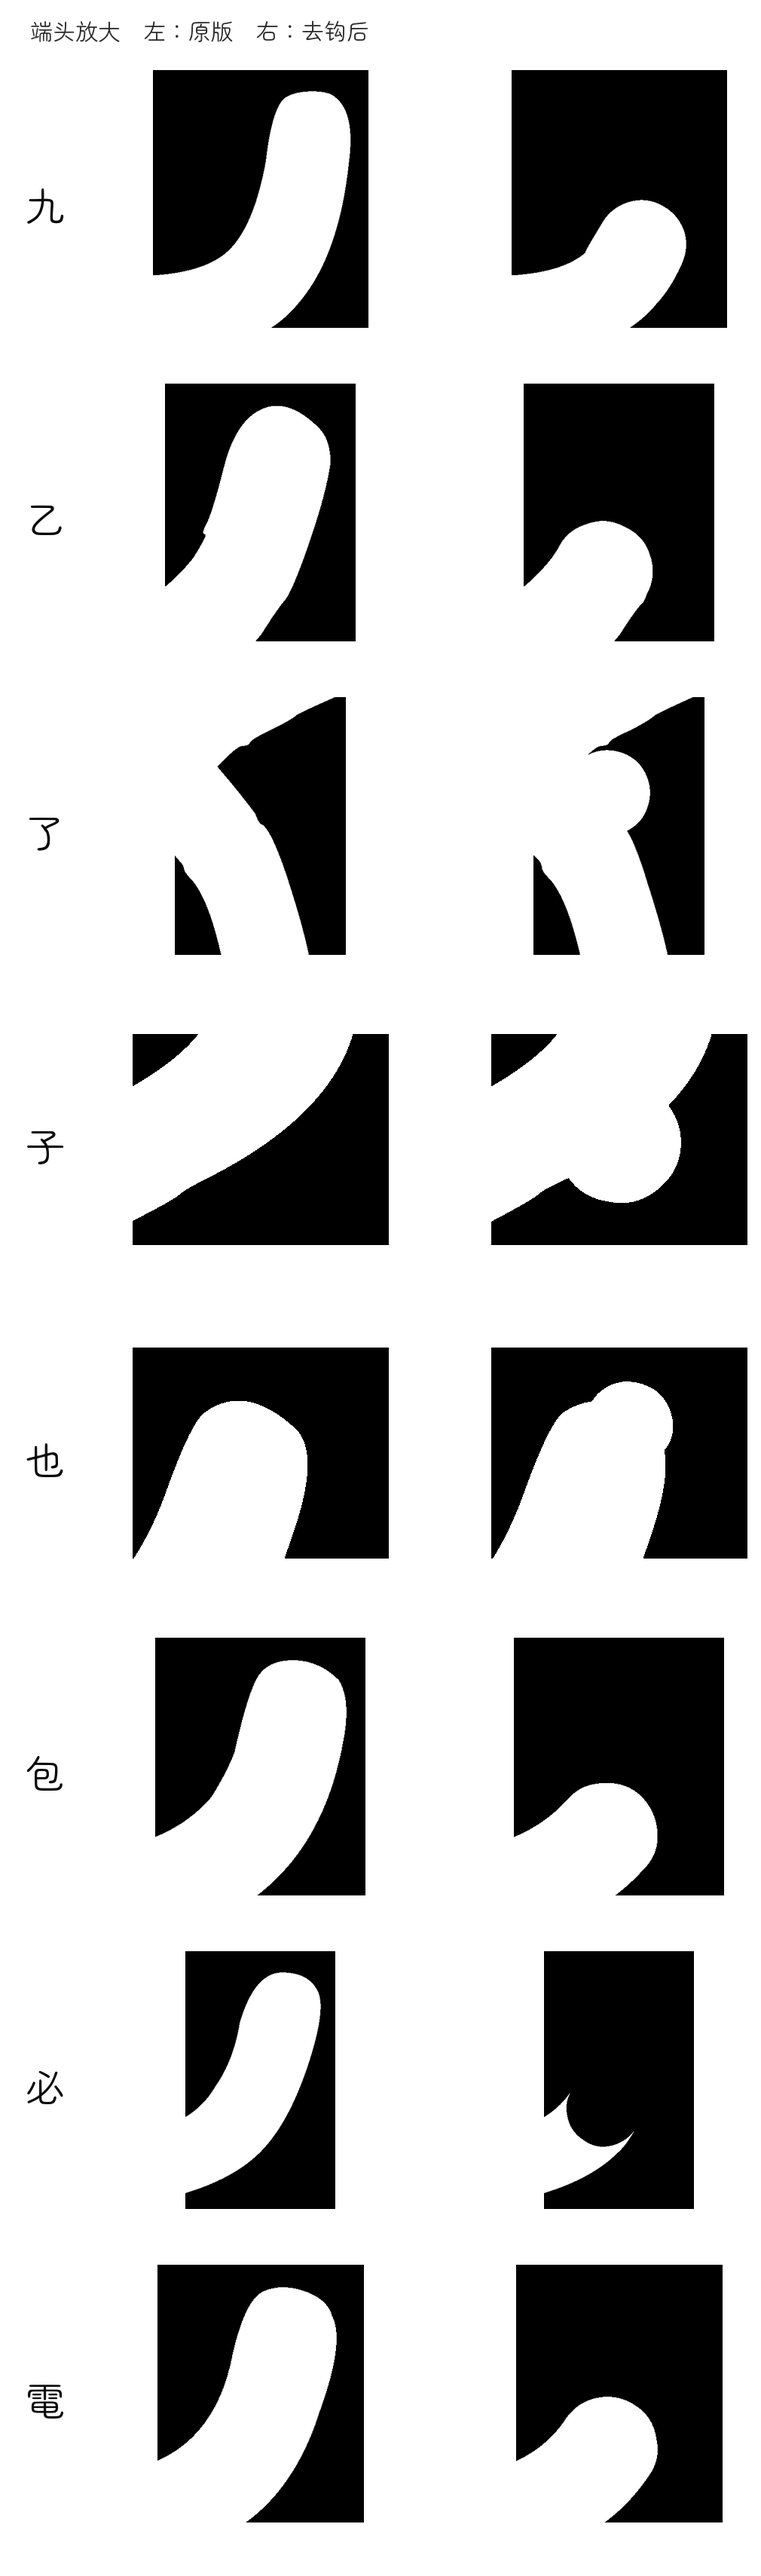
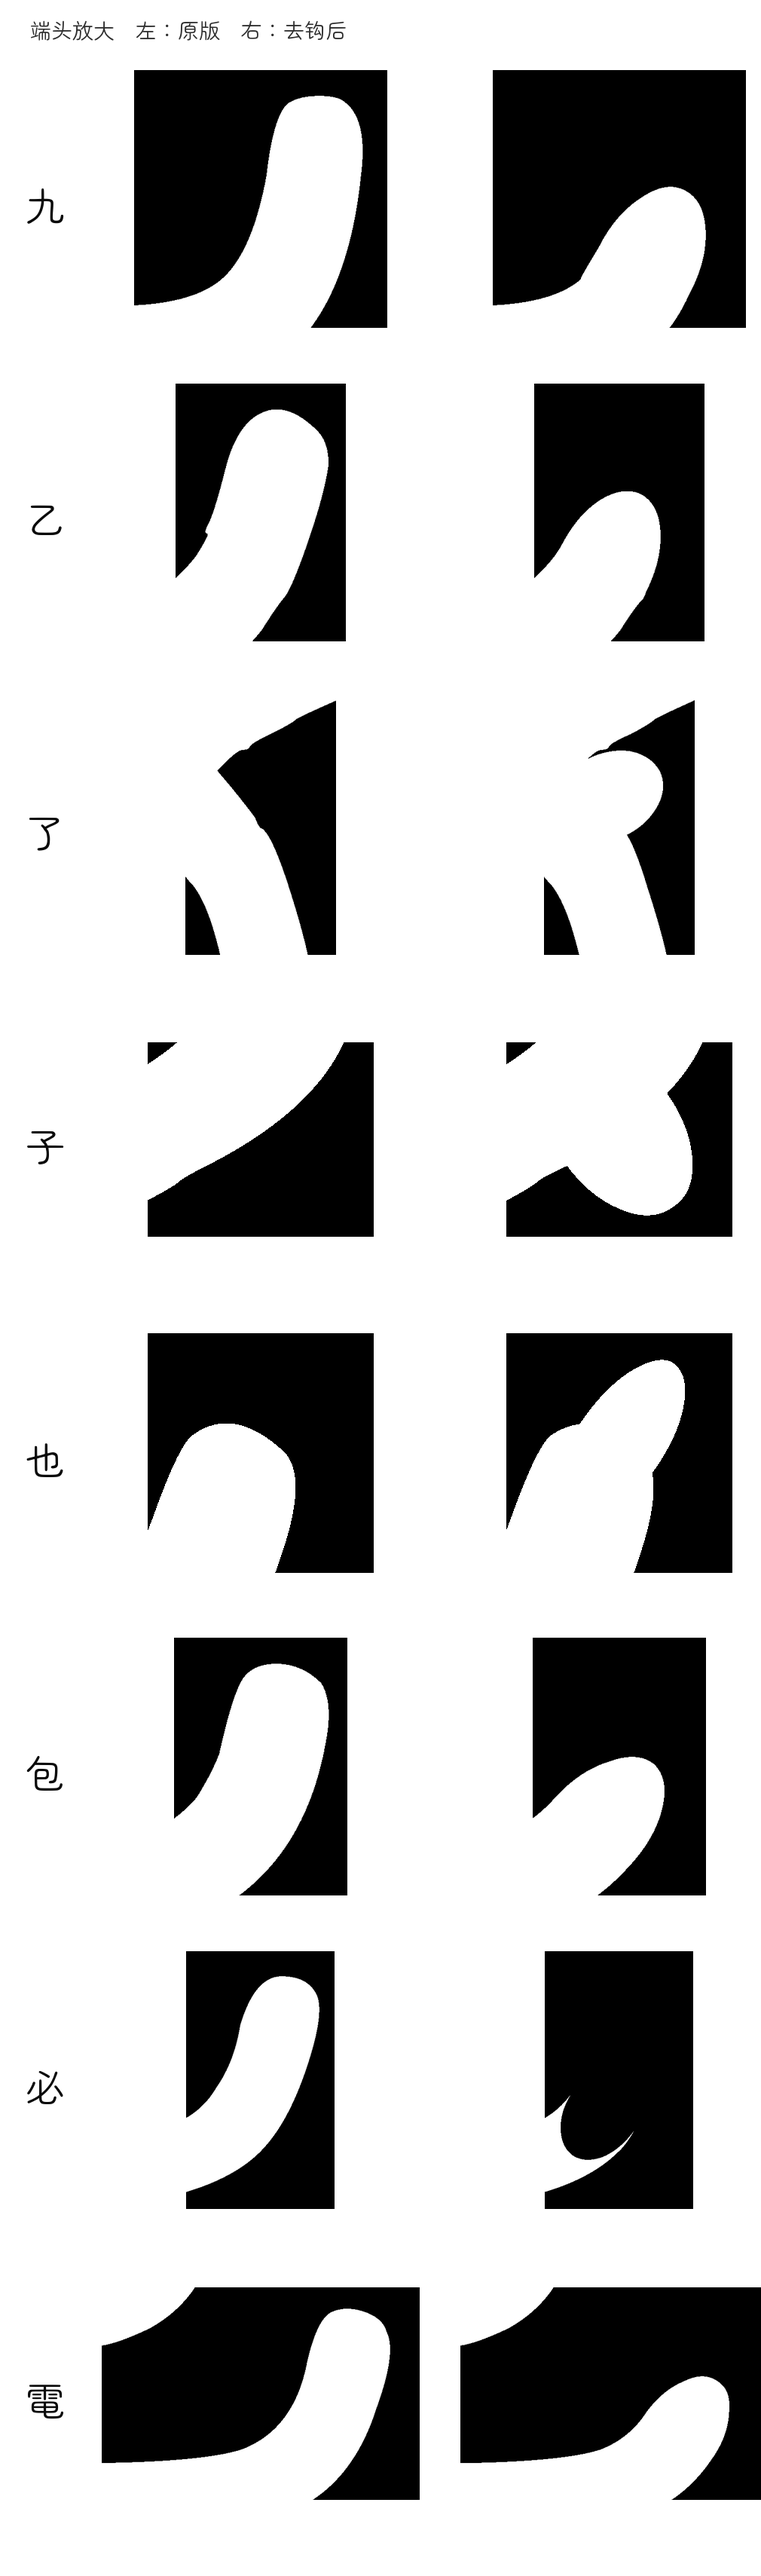
feat: 去钩端头改成半椭圆并顺势延伸，8 字不再断笔

diff --git a/tools/hook_taper.py b/tools/hook_taper.py
@@ -891,8 +891,20 @@ def process(font, gname, px=2000, margin_frac=0.08, verbose=True):
         # 所以两端各插一段小喇叭——起点沿轮廓切向、终点沿圆的切向，全程 G1。
         # best_cut 已经保证弦长 ≈ 2×局部半笔宽，所以这里就是标准半圆：
         # 半径 = 半笔宽、两端与笔身切向一致，既不会胖，也不会留台阶。
-        # 半圆必须朝**钩尖**那一侧鼓（钩原来在的地方），不能按笔身点判方向。
-        cap = build_cap(pS, pE, P, d, r, body=B)
+        # 端头用半椭圆（见 build_ellipse_cap）：弦向半轴 = 半弦长、笔势向 = 半笔宽。
+        # 端头朝**背离笔身**（B 在笔身上）的一侧鼓。
+        C_ = ((pS[0] + pE[0]) / 2, (pS[1] + pE[1]) / 2)
+        nrm = (-(pE[1] - pS[1]), pE[0] - pS[0])
+        nrm = _norm(nrm)
+        if (C_[0] - B[0]) * nrm[0] + (C_[1] - B[1]) * nrm[1] < 0:
+            nrm = (-nrm[0], -nrm[1])
+        # 端头要顺着笔势**延伸**出去，不能平贴在切口上：不延伸就是被截断的笔。
+        # 延伸长度按被去掉的钩在笔势方向上的投影给，至少 0.5r。
+        ext = 0.0
+        if hook_pts:
+            ext = sum((q[0] - C_[0]) * nrm[0] + (q[1] - C_[1]) * nrm[1] for q in hook_pts) / len(hook_pts)
+            ext = max(0.5 * r, min(1.6 * r, ext - 0.6 * r))
+        cap = build_ellipse_cap(pS, pE, C_, nrm, r + ext)
 
         # 保留段：从 E 顺着段序走回 S。按段重建，不再往扁平点表里插点
         # （插点会留下孤立控制点，轮廓自交，端头就出缺口）。
@@ -973,3 +985,29 @@ def main():
 
 if __name__ == "__main__":
     main()
+
+
+def build_ellipse_cap(S, E, C, nrm, b, quads=4):
+    """半椭圆收笔：弦向半轴 = 半弦长，笔势向半轴 = b（半笔宽）。
+
+    为什么不能用半圆：切口的弦长由笔段弯曲决定，通常比真笔宽宽一点
+    （`九` 73–86 vs 69.6）。按弦做半圆 → 半径 38 > 34.8，端头比笔身胖一圈，
+    放大就是个鼓包。半椭圆把弦向半轴留在弦上（端点精确落在轮廓上，无台阶），
+    笔势向压回半笔宽（端头厚度与笔身一致），且两端切向恰为 ±法线，天然 G1。
+    """
+    a = _dist(S, E) / 2
+    u = _norm((S[0] - C[0], S[1] - C[1]))
+    out = []
+    for q in range(quads):
+        t0 = math.pi * q / quads
+        t1 = math.pi * (q + 1) / quads
+        tm = (t0 + t1) / 2
+        coef = math.cos((t1 - t0) / 2)
+        out.append((C[0] + a / coef * math.cos(tm) * u[0] + b / coef * math.sin(tm) * nrm[0],
+                    C[1] + a / coef * math.cos(tm) * u[1] + b / coef * math.sin(tm) * nrm[1],
+                    False))
+        if q < quads - 1:
+            out.append((C[0] + a * math.cos(t1) * u[0] + b * math.sin(t1) * nrm[0],
+                        C[1] + a * math.cos(t1) * u[1] + b * math.sin(t1) * nrm[1], True))
+    out.append((E[0], E[1], True))
+    return out
